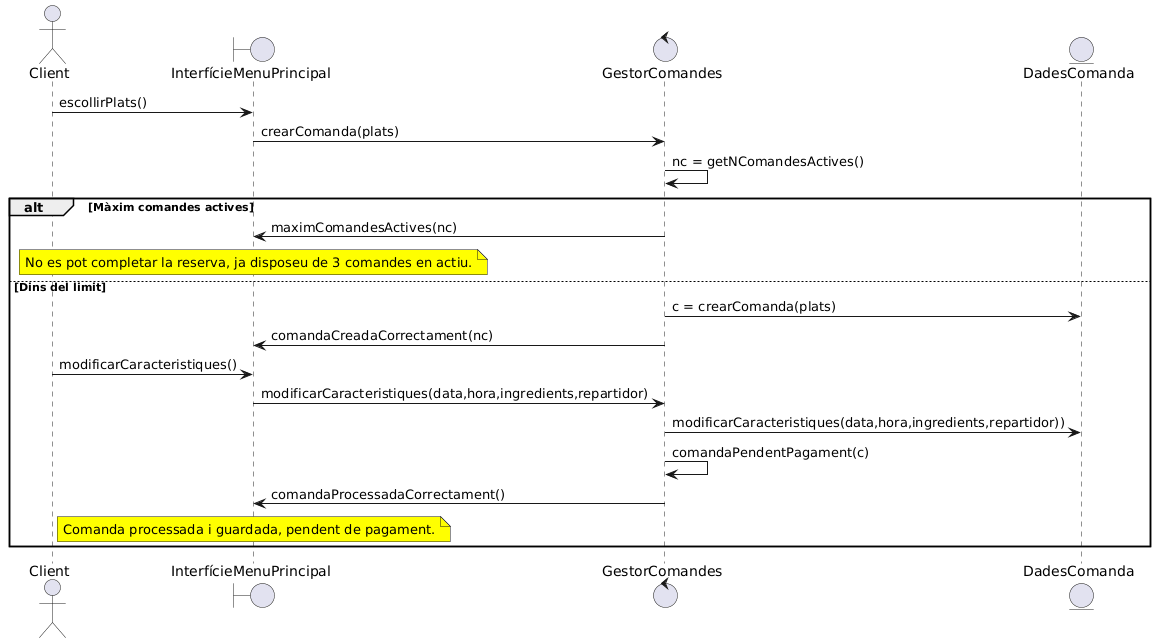
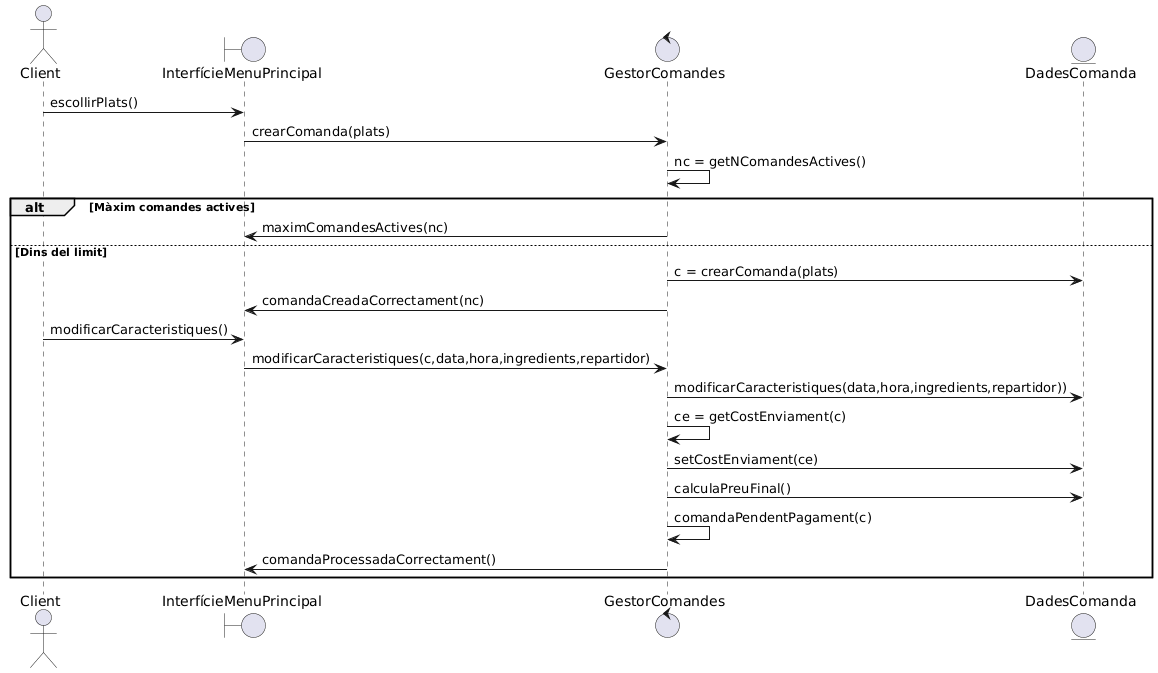
Fix especificacions + acabar DS
Hola guapos   ;)

diff --git a/documents/Diagrames i Especificacions/Cas d'ús/Especificacions/Marc Sala/4. Escollir qui reparteix.md b/documents/Diagrames i Especificacions/Cas d'ús/Especificacions/Marc Sala/4. Escollir qui reparteix.md
@@ -41,8 +41,11 @@ Ha d’haver-hi una comanda en procés de fer-se i que aquesta estigui atribuida
 **Inclusion point**: CU Fer comandes
 
 1. Durant el procés de fer una comanda, es farà una pregunta al client sobre qui prefereix que reparteixi la comanda (un repartidor de l’app o ell mateix).
-
-2. La decisió quedará guardada a la comanda i més endavant s’utilitzarà per calcular el cost de l’enviament.
+2. La decisió quedará guardada a la comanda.
+3. A partir de la decisió es calcularà el cost d’enviament de la següent manera.
+* Si l’usuari està subscrit al pla mensual, el cost d’enviament és zero.
+* Si no està subscrit i vol anar a buscar ell mateix la comanda, el cost d’enviament és zero.
+* Si no està subscrit i escull un repartidor de l’app, el cost d’enviament serà la distància en metres del cuiner al punt de recollida multiplicat per 0,1.
 
 
 
@@ -56,7 +59,6 @@ Depenen de l’elecció passarà un dels següents subfluxos.
 
    1. Li arribarà una notificació al cuiner (tipus: “Tens una nova comanda, acceptes repartir-la?”), ell podrà acceptar anar-hi ell mateix o descartar-ho perquè ho faci un repartidor.
    2. Si el cuiner descarta portar-li la comanda al client, li arribarà una notificació al repartidor disponible més proper al cuiner (tipus: “Aquí a prop tens una nova comanda a repartir, l’acceptes?”).
-   3. Si el repartidor no l’accepta, li arribarà una notificació al següent repartidor disponible més proper al cuiner.
 
 
 
@@ -85,6 +87,4 @@ Normal
 
 
 ## Comentaris:
-
-
 

diff --git a/documents/Diagrames i Especificacions/Cas d'ús/Especificacions/Marc Sala/2. Fer comandes.md b/documents/Diagrames i Especificacions/Cas d'ús/Especificacions/Marc Sala/2. Fer comandes.md
@@ -38,11 +38,10 @@ El client no ha de tenir més de 3 comandes actives. Si té 3 comandes reservade
 
 ## Flux principal:
 
-1. Quan el client està consultant el menú pot escollir quins plats vol demanar clicant el botó de reservar.
-
+1. Quan el client està consultant el menú pot escollir quins plats vol demanar clicant el botó de reservar. El cost d’aquell plat s’afegirà al preu final de la comanda.
 2. L’usuari modificarà les caracterísitques de l’ordre (ingredients adicionals, data i hora i repartidor).
-
-3. Quan el client acabi de processar l’orde es mostrarà un missatge per pantalla que digui “Comanda processada i guardada, pendent de pagament”.
+3. Per calcular el cost final de la comanda es sumarà el cost dels plats de la comanda més el cost d’enviament.
+4. Quan el client acabi de processar l’orde es mostrarà un missatge per pantalla que digui “Comanda processada i guardada, pendent de pagament”.
 
 
 
@@ -79,6 +78,4 @@ Normal
 
 
 ## Comentaris:
-
-
 

diff --git a/documents/Diagrames i Especificacions/Cas d'ús/Especificacions/Marc Sala/7. Acceptar comandes a repartir.md b/documents/Diagrames i Especificacions/Cas d'ús/Especificacions/Marc Sala/7. Acceptar comandes a repartir.md
@@ -51,15 +51,15 @@ D’aquí es tria el subflux 2 o 3.
 
 
 
-2.2 Es calcularà el cost en funció de la distància entre el cuiner i el lloc de recollida (si el repartidor és el client el cost serà 0).
+2.2 Es podrà accedir al seguiment de la comanda.
 
 
 
-2.3 Es podrà accedir al seguiment de la comanda.
+3.1 Si es descarta, el client pot rebre una notificació amb el missatge que indiqui el motiu i continuarà a la espera fins que algun repartidor li accepti la comanda.
 
 
 
-3\. Si es descarta, el client pot una notificació amb el missatge que indiqui el motiu i continuarà a la espera fins que algun repartidor li accepti la comanda o canviï qui reparteix.
+3.2 Li arribarà una notificació al següent repartidor disponible més proper al cuiner.
 
 
 
